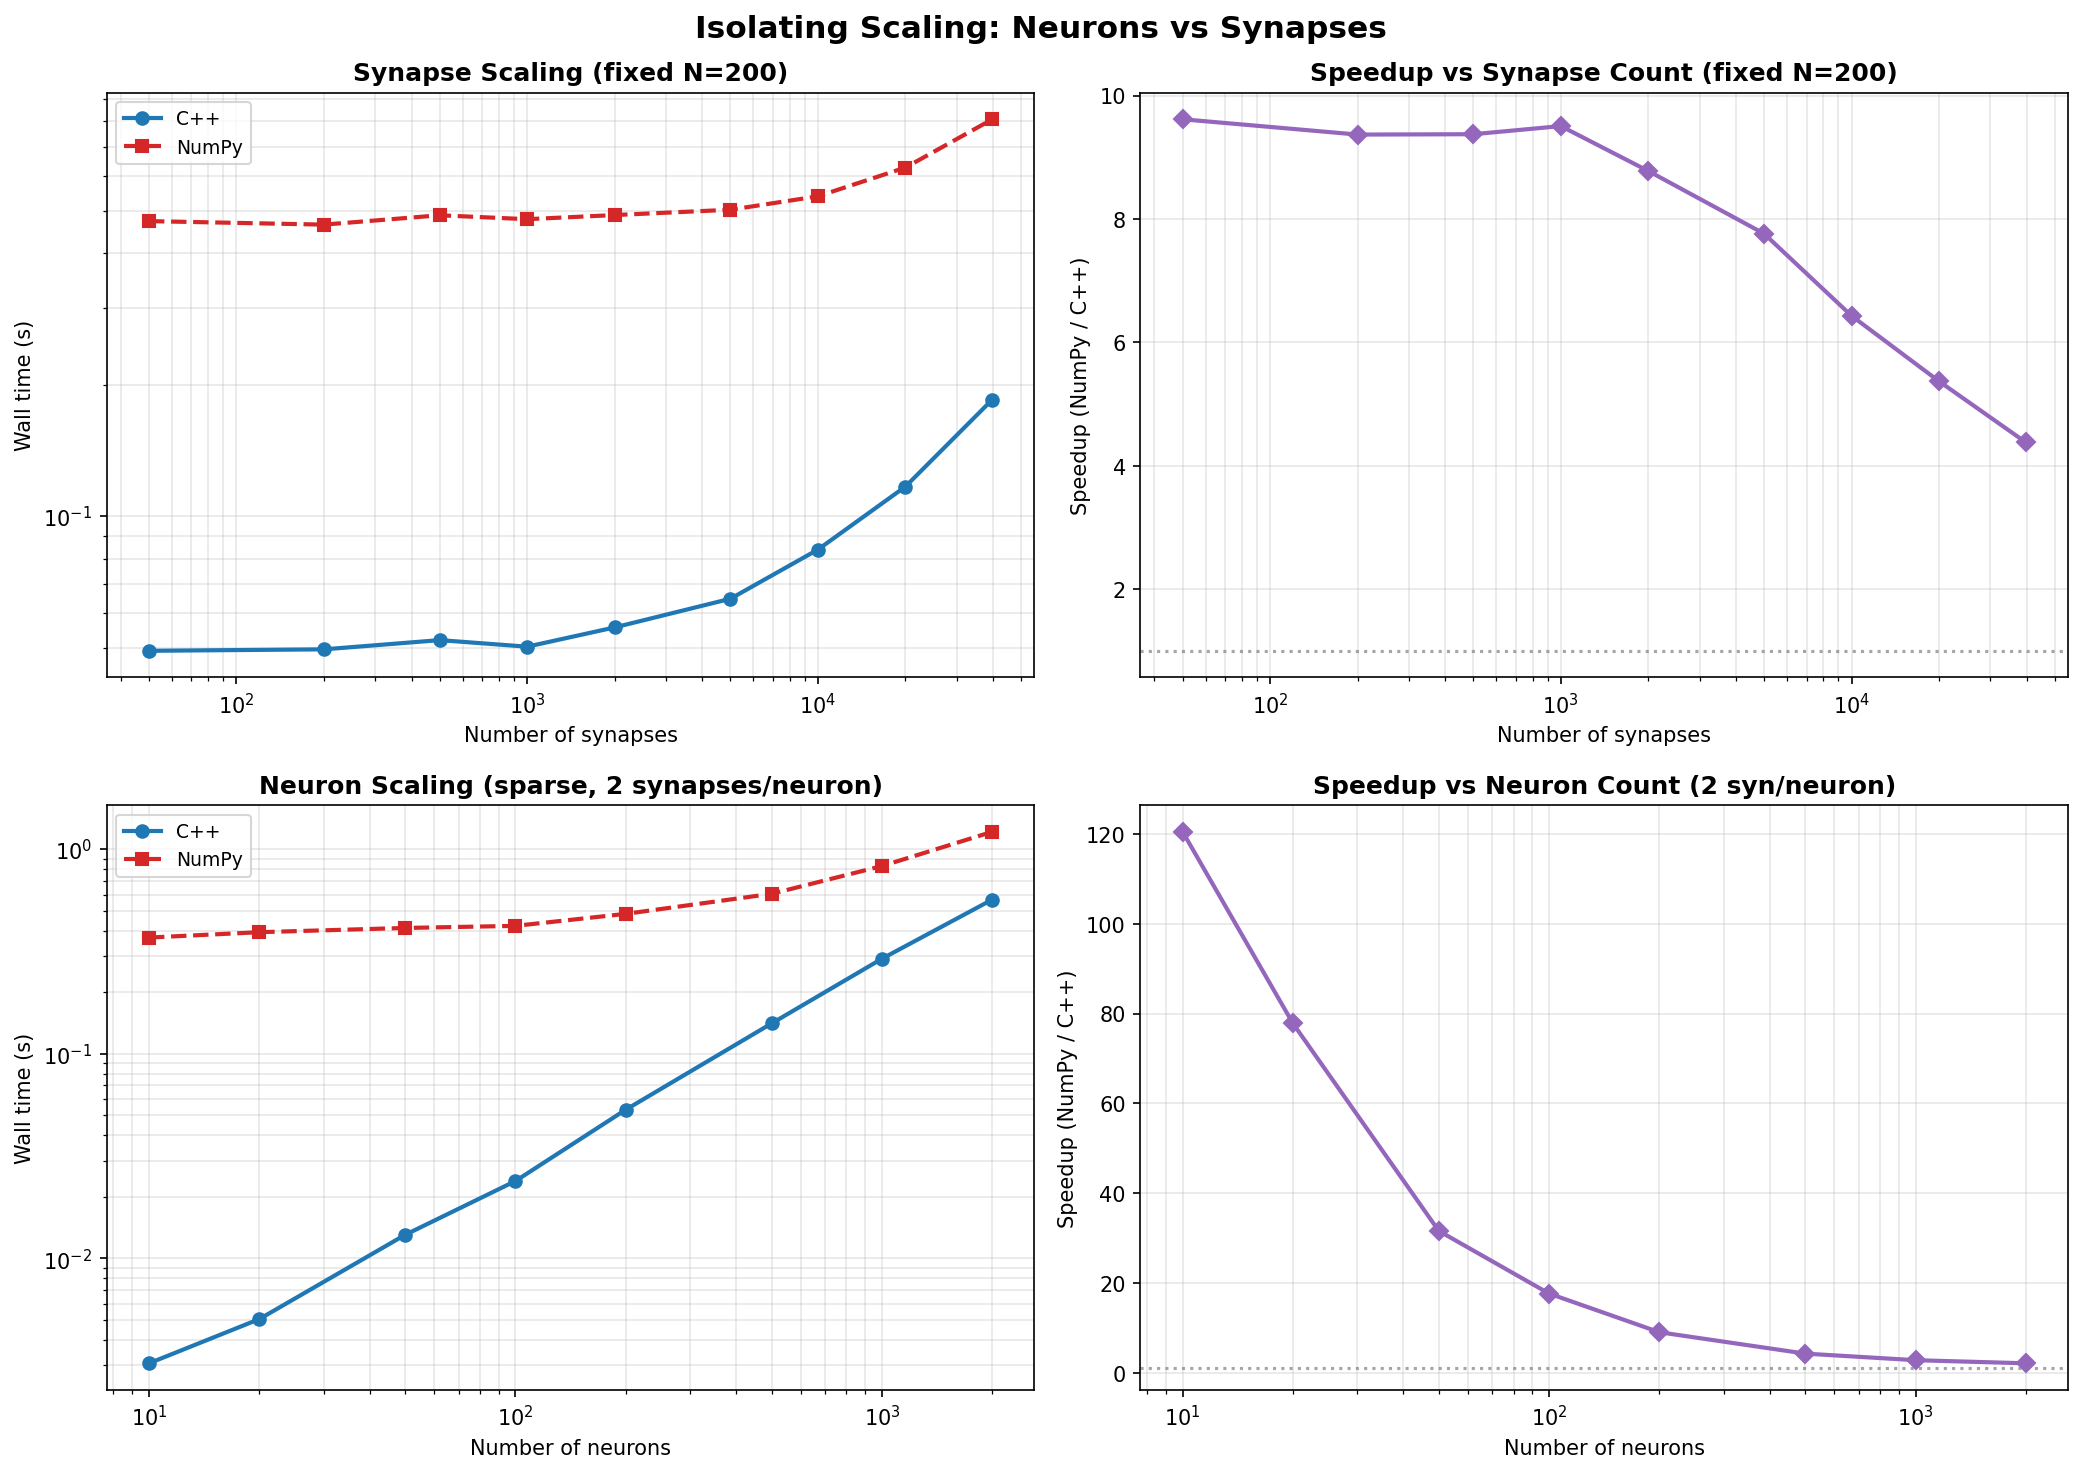
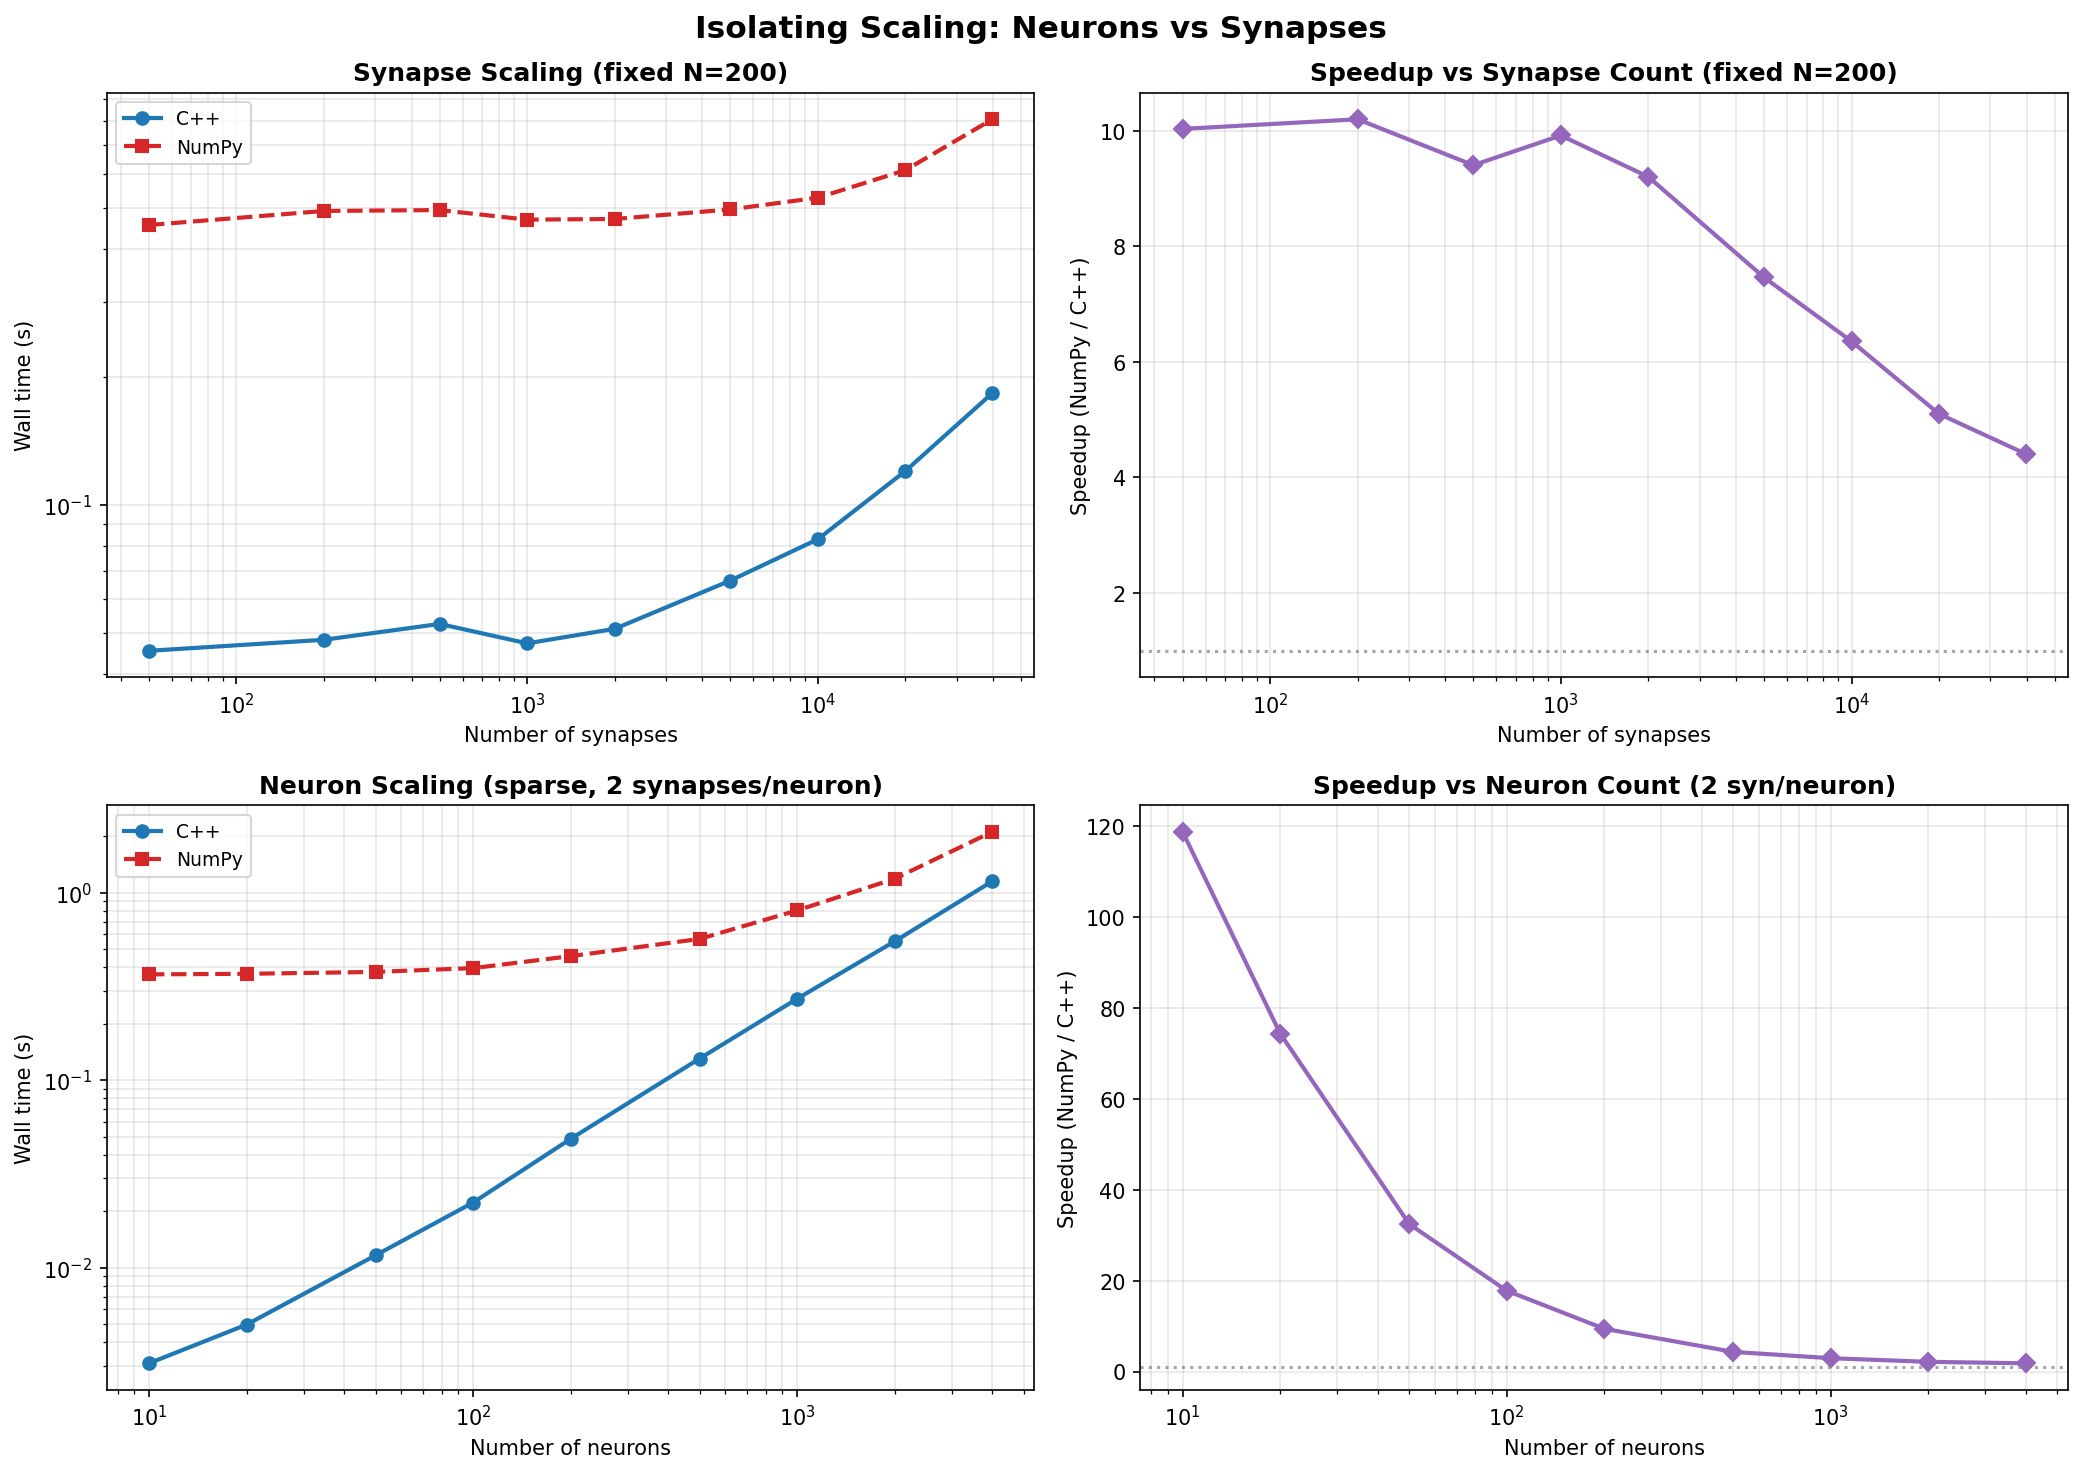
more optimizations

diff --git a/src/cpp/src/hh_pool.cpp b/src/cpp/src/hh_pool.cpp
@@ -7,7 +7,7 @@ namespace hodgkin_huxley {
 // Construction — pre-allocate every buffer so the hot loop does 0 mallocs
 // =============================================================================
 
-HHPool::HHPool(size_t capacity) : N_(0) {
+HHPool::HHPool(size_t capacity, bool fast_math) : N_(0), fast_math_(fast_math) {
     net_idx_.reserve(capacity);
 
     // State
@@ -38,6 +38,9 @@ HHPool::HHPool(size_t capacity) : N_(0) {
     tmp_am_.resize(capacity);  tmp_bm_.resize(capacity);
     tmp_ah_.resize(capacity);  tmp_bh_.resize(capacity);
     tmp_an_.resize(capacity);  tmp_bn_.resize(capacity);
+
+    // Fast exp working buffer
+    tmp_exp_r_.resize(capacity);
 }
 
 void HHPool::add(size_t network_idx, const HHNeuron::Parameters& params,
@@ -81,12 +84,43 @@ void HHPool::gather_currents(const double* I_buf) {
 }
 
 // =============================================================================
+// Fast exp: range reduction by 32 + degree-7 Taylor + 5 squarings
+//
+// exp(x) = exp(x/32)^32.  Taylor degree-7 on [-0.31, 0.09] gives ~8
+// significant digits after 5 squarings.  Entirely Eigen-vectorized —
+// every line is a SIMD fma or multiply over the full array.
+// Safe to call with src == dst (input consumed in first line).
+// =============================================================================
+
+void HHPool::fast_exp(const Eigen::ArrayXd& src, Eigen::ArrayXd& dst) {
+    // Range reduction: exp(x) = exp(x/32)^32
+    tmp_exp_r_ = src * (1.0 / 32.0);
+
+    // Degree-7 Taylor polynomial in Horner form:
+    // exp(r) ≈ 1 + r + r²/2 + r³/6 + r⁴/24 + r⁵/120 + r⁶/720 + r⁷/5040
+    dst = tmp_exp_r_ * (1.0 / 5040.0) + (1.0 / 720.0);
+    dst = dst * tmp_exp_r_ + (1.0 / 120.0);
+    dst = dst * tmp_exp_r_ + (1.0 / 24.0);
+    dst = dst * tmp_exp_r_ + (1.0 / 6.0);
+    dst = dst * tmp_exp_r_ + 0.5;
+    dst = dst * tmp_exp_r_ + 1.0;
+    dst = dst * tmp_exp_r_ + 1.0;
+
+    // 5 squarings: exp(x/32)^32 = exp(x)
+    dst *= dst;
+    dst *= dst;
+    dst *= dst;
+    dst *= dst;
+    dst *= dst;
+}
+
+// =============================================================================
 // Vectorized HH derivative computation — zero allocation
 //
-// Multi-use intermediates (n2, V+65, V+40, V+55) write to pre-allocated
-// tmp_ buffers.  Single-use rate functions use auto (lazy evaluation via
-// Eigen expression templates) so they fuse into the final dm/dh/dn
-// assignment without materialising separate arrays.
+// Multi-use intermediates (n², V+65, V+40, V+55) write to pre-allocated
+// tmp_ buffers.  Rate functions are materialized into tmp_am_ .. tmp_bn_.
+// When fast_math_ is true, uses polynomial fast_exp (~8 digits);
+// otherwise uses Eigen's built-in exp (full precision).
 // =============================================================================
 
 void HHPool::compute_derivatives(
@@ -108,25 +142,61 @@ void HHPool::compute_derivatives(
           - g_K_ * tmp_n2_ * tmp_n2_ * (V - E_K_)
           - g_L_ * (V - E_L_)) / C_m_;
 
-    // Rate functions — materialized into pre-allocated buffers.
-    // Forces Eigen to use SIMD packet evaluation for exp(), which
-    // lazy auto expressions may prevent when fused with outer ops.
+    // fast_exp wins at large N (amortized over many elements) but has too
+    // much loop overhead for tiny arrays.  Threshold ~64 = 8 AVX2 registers.
+    if (fast_math_ && N_ > 64) {
+        // --- Fast polynomial exp (~8 significant digits) ---
 
-    // alpha_m: singularity at V=-40 via select (branchless)
-    tmp_am_ = (tmp_dVm_.abs() < 1e-7).select(
-        Eigen::ArrayXd::Ones(N_),
-        0.1 * tmp_dVm_ / (1.0 - (-tmp_dVm_ * 0.1).exp()));
+        // beta_m: 4 * exp(-(V+65)/18)
+        tmp_bm_ = -tmp_Vp65_ / 18.0;
+        fast_exp(tmp_bm_, tmp_bm_);
+        tmp_bm_ *= 4.0;
 
-    tmp_bm_ = 4.0 * (-tmp_Vp65_ / 18.0).exp();
-    tmp_ah_ = 0.07 * (-tmp_Vp65_ * 0.05).exp();
-    tmp_bh_ = 1.0 / (1.0 + (-(V + 35.0) * 0.1).exp());
+        // alpha_h: 0.07 * exp(-0.05*(V+65))
+        tmp_ah_ = -tmp_Vp65_ * 0.05;
+        fast_exp(tmp_ah_, tmp_ah_);
+        tmp_ah_ *= 0.07;
 
-    // alpha_n: singularity at V=-55 via select
-    tmp_an_ = (tmp_dVn_.abs() < 1e-7).select(
-        Eigen::ArrayXd::Constant(N_, 0.1),
-        0.01 * tmp_dVn_ / (1.0 - (-tmp_dVn_ * 0.1).exp()));
+        // beta_h: 1 / (1 + exp(-0.1*(V+35)))
+        tmp_bh_ = -(V + 35.0) * 0.1;
+        fast_exp(tmp_bh_, tmp_bh_);
+        tmp_bh_ = 1.0 / (1.0 + tmp_bh_);
 
-    tmp_bn_ = 0.125 * (-tmp_Vp65_ * 0.0125).exp();
+        // beta_n: 0.125 * exp(-0.0125*(V+65))
+        tmp_bn_ = -tmp_Vp65_ * 0.0125;
+        fast_exp(tmp_bn_, tmp_bn_);
+        tmp_bn_ *= 0.125;
+
+        // alpha_m: 0.1*(V+40) / (1 - exp(-0.1*(V+40))), singularity at V=-40
+        tmp_am_ = -tmp_dVm_ * 0.1;
+        fast_exp(tmp_am_, tmp_am_);
+        tmp_am_ = (tmp_dVm_.abs() < 1e-7).select(
+            Eigen::ArrayXd::Ones(N_),
+            0.1 * tmp_dVm_ / (1.0 - tmp_am_));
+
+        // alpha_n: 0.01*(V+55) / (1 - exp(-0.1*(V+55))), singularity at V=-55
+        tmp_an_ = -tmp_dVn_ * 0.1;
+        fast_exp(tmp_an_, tmp_an_);
+        tmp_an_ = (tmp_dVn_.abs() < 1e-7).select(
+            Eigen::ArrayXd::Constant(N_, 0.1),
+            0.01 * tmp_dVn_ / (1.0 - tmp_an_));
+    } else {
+        // --- Full-precision Eigen exp ---
+
+        tmp_am_ = (tmp_dVm_.abs() < 1e-7).select(
+            Eigen::ArrayXd::Ones(N_),
+            0.1 * tmp_dVm_ / (1.0 - (-tmp_dVm_ * 0.1).exp()));
+
+        tmp_bm_ = 4.0 * (-tmp_Vp65_ / 18.0).exp();
+        tmp_ah_ = 0.07 * (-tmp_Vp65_ * 0.05).exp();
+        tmp_bh_ = 1.0 / (1.0 + (-(V + 35.0) * 0.1).exp());
+
+        tmp_an_ = (tmp_dVn_.abs() < 1e-7).select(
+            Eigen::ArrayXd::Constant(N_, 0.1),
+            0.01 * tmp_dVn_ / (1.0 - (-tmp_dVn_ * 0.1).exp()));
+
+        tmp_bn_ = 0.125 * (-tmp_Vp65_ * 0.0125).exp();
+    }
 
     dm = tmp_am_ * (1.0 - m) - tmp_bm_ * m;
     dh = tmp_ah_ * (1.0 - h) - tmp_bh_ * h;

diff --git a/src/cpp/include/hodgkin_huxley/hh_pool.hpp b/src/cpp/include/hodgkin_huxley/hh_pool.hpp
@@ -19,7 +19,7 @@ namespace hodgkin_huxley {
 class HHPool {
 public:
     HHPool() = default;
-    explicit HHPool(size_t capacity);
+    explicit HHPool(size_t capacity, bool fast_math = true);
 
     void add(size_t network_idx, const HHNeuron::Parameters& params,
              const HHNeuron::State& state);
@@ -65,8 +65,19 @@ private:
     // Rate function buffers — materialized for guaranteed SIMD packet eval
     Eigen::ArrayXd tmp_am_, tmp_bm_, tmp_ah_, tmp_bh_, tmp_an_, tmp_bn_;
 
+    // Fast exp working buffer (range-reduced input)
+    Eigen::ArrayXd tmp_exp_r_;
+
+    // When true, use fast polynomial exp (~8 digits); when false, use Eigen's built-in
+    bool fast_math_ = true;
+
     // True when pool indices are [start, start+1, ..., start+N-1]
     bool contiguous_ = false;
+
+    // Fast exp approximation: ~8 significant digits, no 2^k bit tricks.
+    // Uses range reduction (divide by 32) + degree-7 Taylor + 5 squarings.
+    // Entirely Eigen-vectorized. Safe to call with src == dst.
+    void fast_exp(const Eigen::ArrayXd& src, Eigen::ArrayXd& dst);
 
     // Writes derivatives into kV_/km_/kh_/kn_ (passed as dV/dm/dh/dn).
     // Non-const because it writes to tmp_ members.

diff --git a/src/cpp/include/hodgkin_huxley/network.hpp b/src/cpp/include/hodgkin_huxley/network.hpp
@@ -127,6 +127,10 @@ public:
      */
     [[nodiscard]] const SynapseBase& synapse(size_t idx) const;
 
+    // Fast math toggle (affects exp() in HH pool — ~8 digits vs full precision)
+    void set_fast_math(bool enabled) { fast_math_ = enabled; }
+    [[nodiscard]] bool fast_math() const { return fast_math_; }
+
     // Get all membrane potentials
     [[nodiscard]] std::vector<double> get_potentials() const;
 
@@ -219,6 +223,9 @@ private:
         std::vector<size_t> dexp;
     } syn_groups_;
     std::vector<uint8_t> spike_detected_;  // per-synapse spike flag buffer
+
+    // Use fast polynomial exp approximation (~8 digits) vs Eigen's built-in
+    bool fast_math_ = true;
 
     // Lazy sync: SoA is source of truth during simulation
     mutable bool soa_dirty_ = false;

diff --git a/examples/benchmark_network.py b/examples/benchmark_network.py
@@ -727,7 +727,7 @@ def run_neuron_scaling(duration: float = 100.0, dt: float = 0.05,
     Increase neuron count, keep synapses per neuron fixed (sparse ring k=2).
     Synapses grow linearly: S = 2*N.
     """
-    neuron_counts = [10, 20, 50, 100, 200, 500, 1000, 2000]
+    neuron_counts = [10, 20, 50, 100, 200, 500, 1000, 2000, 4000]
     k = 2  # each neuron connects to 2 neighbours
     cpp_times = []
     numpy_times = []
@@ -1066,7 +1066,7 @@ def main():
 
     figs_dir = setup_output_dir()
 
-    sizes = [5, 10, 20, 50, 100, 200, 500, 1000, 2000]
+    sizes = [5, 10, 20, 50, 100, 200, 500, 1000, 2000, 4000, 8000]
     duration = 100.0  # ms
     dt = 0.05         # ms (RK4-safe for HH)
     I_val = 10.0      # uA/cm^2

diff --git a/src/hodgkin_huxley/__init__.py b/src/hodgkin_huxley/__init__.py
@@ -630,6 +630,15 @@ class Network:
         """Number of synaptic connections."""
         return self._network.num_synapses
 
+    @property
+    def fast_math(self) -> bool:
+        """Use fast polynomial exp (~8 digits) vs full precision. Default: True."""
+        return self._network.fast_math
+
+    @fast_math.setter
+    def fast_math(self, enabled: bool) -> None:
+        self._network.fast_math = enabled
+
     def neuron(self, idx: int) -> _NeuronBase:
         """Get a neuron by index (polymorphic access)."""
         return self._network.neuron(idx)

diff --git a/src/python/bindings.cpp b/src/python/bindings.cpp
@@ -284,6 +284,8 @@ PYBIND11_MODULE(_core, m) {
         // Properties
         .def_property_readonly("num_neurons", &Network::num_neurons)
         .def_property_readonly("num_synapses", &Network::num_synapses)
+        .def_property("fast_math", &Network::fast_math, &Network::set_fast_math,
+                      "Use fast polynomial exp (~8 digits) vs full precision. Default: true.")
 
         // Neuron access
         .def("neuron", [](Network& net, size_t idx) -> NeuronBase& {

diff --git a/src/cpp/src/network.cpp b/src/cpp/src/network.cpp
@@ -691,7 +691,7 @@ std::vector<std::vector<double>> Network::simulate(
         else if (dynamic_cast<IzhikevichNeuron*>(neurons_[i].get())) ++n_iz;
     }
 
-    HHPool hh_pool(n_hh);
+    HHPool hh_pool(n_hh, fast_math_);
     IzPool iz_pool(n_iz);
 
     for (size_t i = 0; i < n_neurons; ++i) {
